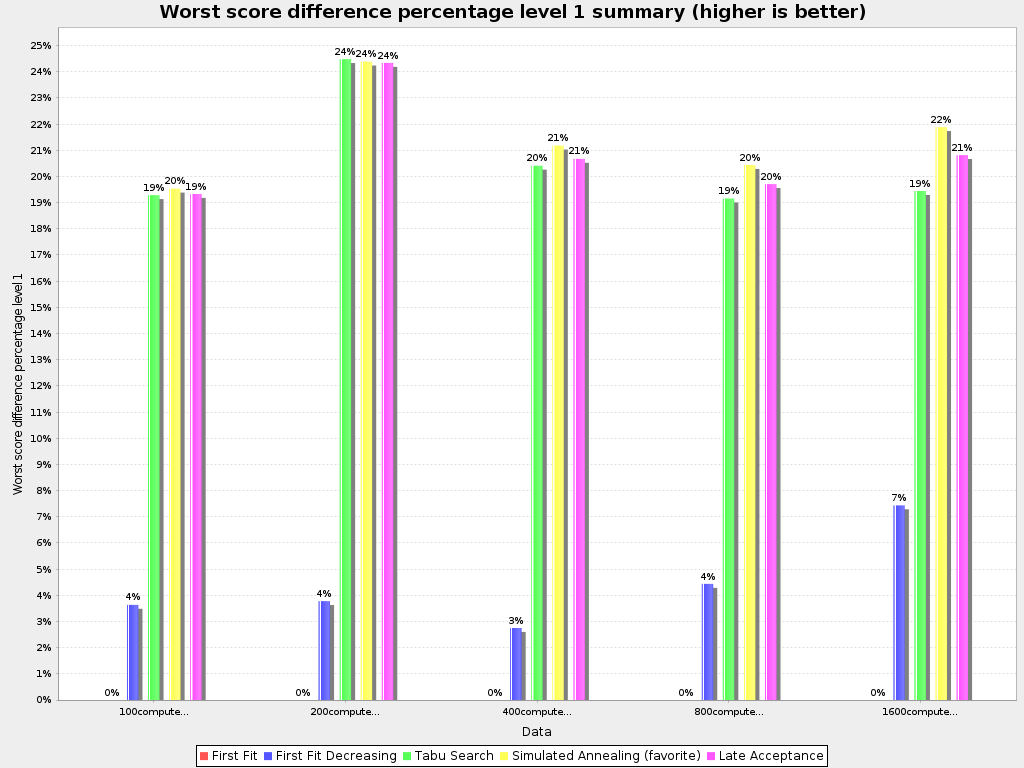
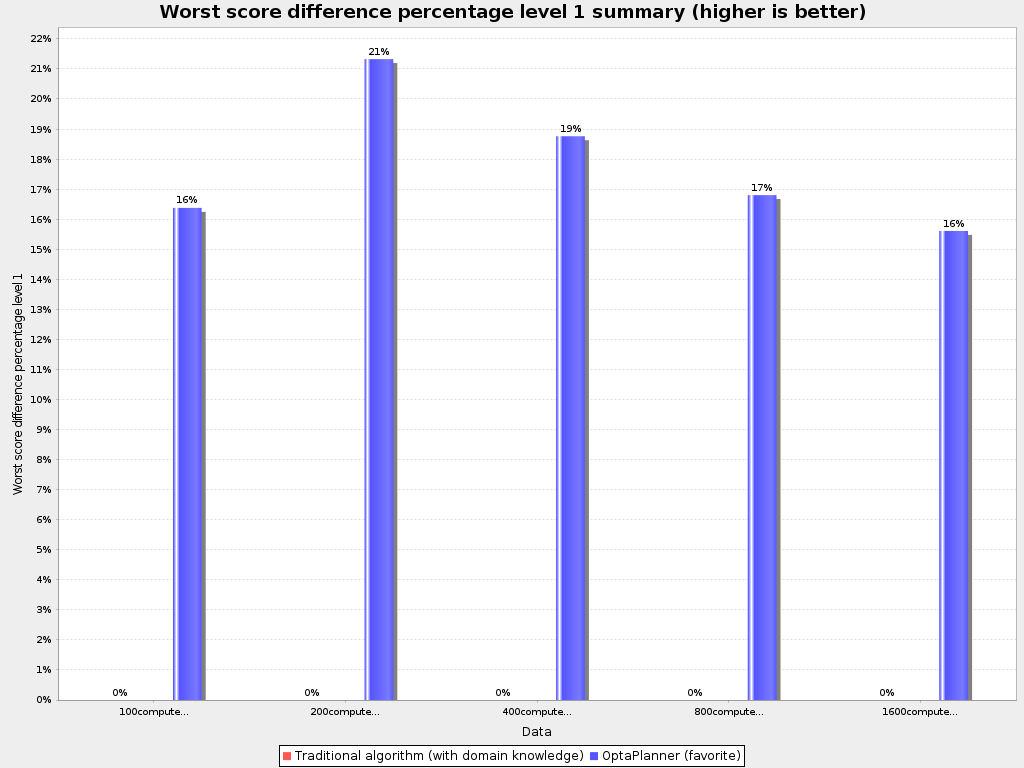
simplify cloud balancing ROI

diff --git a/optaplanner-presentation/index.html b/optaplanner-presentation/index.html
@@ -796,7 +796,7 @@ public class Process {
     <section>
         <h3>Résultat avec OptaPlanner</h3>
         <figure>
-            <img src="presentation_extra/cloudBalanceResults_2.png"/>
+            <img src="presentation_extra/cloudBalanceResults.png"/>
         </figure>
     </section>
     <section>
